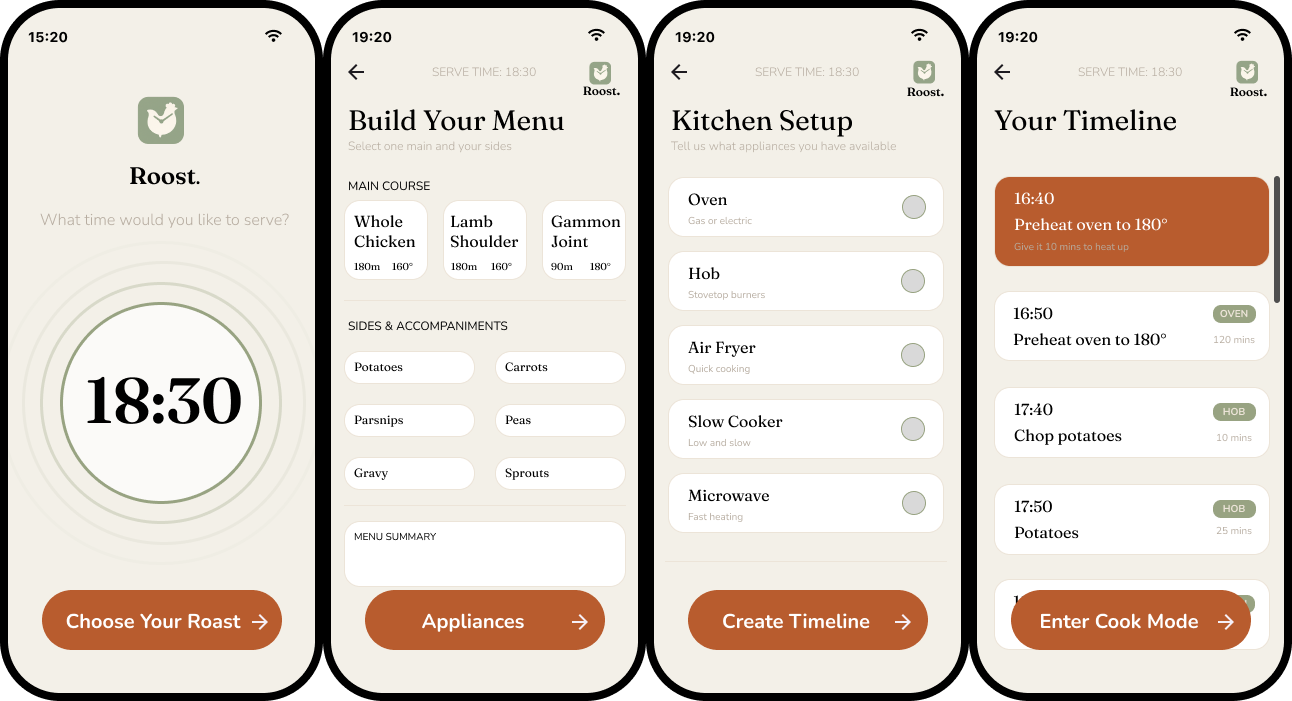
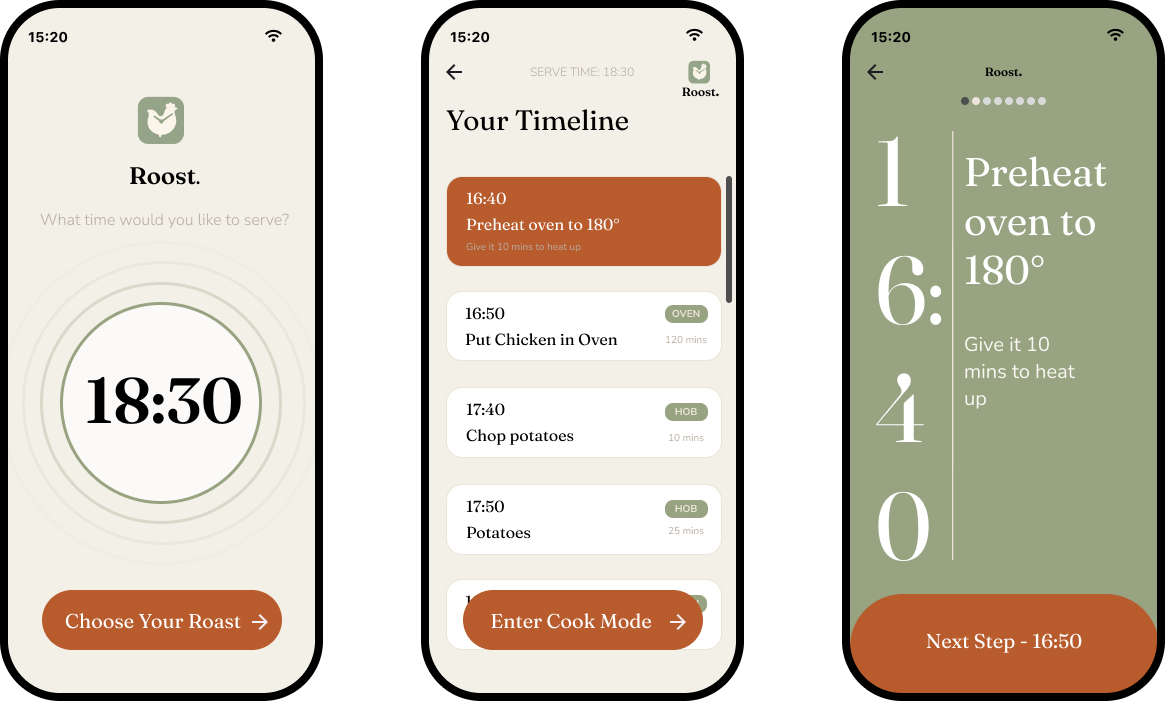
high fidelity edits

diff --git a/case-study-one.html b/case-study-one.html
@@ -699,7 +699,7 @@
     </table>
     <br>
   <br>
-    <h3 style="font-size: 42px;">"I literally wasted £45 on a roast, and my guests hadn't even arrived yet. I nearly cried"</h3> <h3>- <i>Disgruntled ruined roast victim (who, understandably, wished to remain anonymous)</i></h3>
+    <h3 style="font-size: 42px;">"I literally wasted £45 on a roast, and my guests hadn't even arrived yet. I nearly cried"</h3> <h3>- <i>Disgruntled ruined roast victim</i></h3>
   </section>
 
   <section class="section section-wide js-reveal">